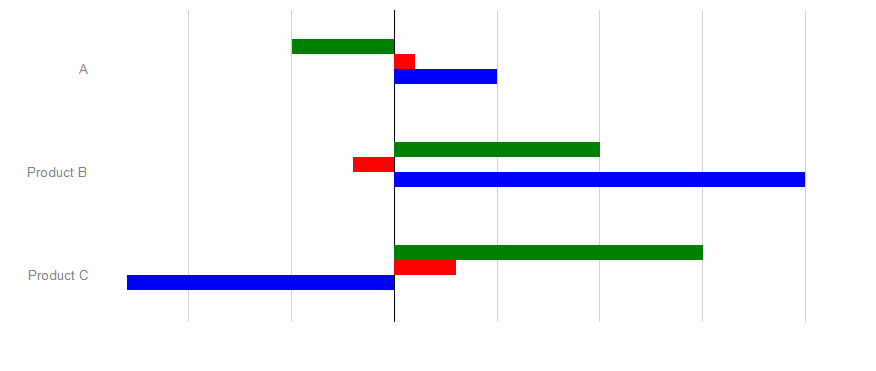
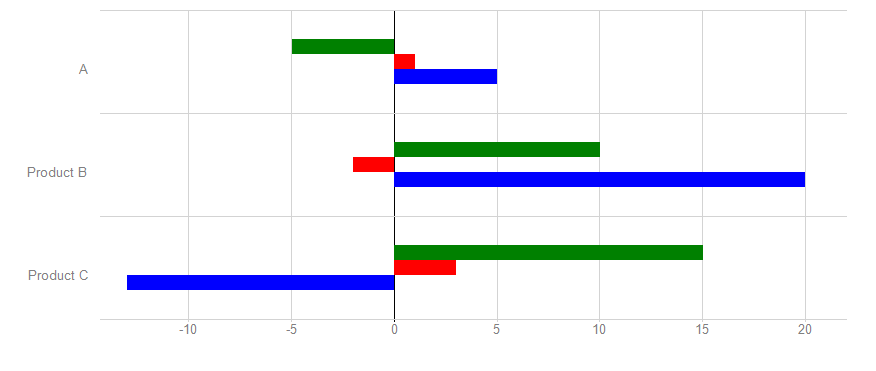
HorzBarChart: Draw vertical value labels

diff --git a/SimpleImageCharts/HorzBarChart/HorzBarChart.cs b/SimpleImageCharts/HorzBarChart/HorzBarChart.cs
@@ -61,8 +61,9 @@ namespace SimpleImageCharts.HorzBarChart
                 // X axis line
                 graphic.DrawLine(Pens.Black, _rootX, MarginTop, _rootX, Height - MarginBottom);
 
-                // DrawHorizontalLines(graphic);
+                DrawHorizontalLines(graphic);
                 DrawVerticalLines(graphic);
+                DrawVerticalValueLabels(graphic);
                 var offsetY = IsStacked ? 0 : -(DataSets.Length * BarHeight) / 2;
                 foreach (var data in DataSets)
                 {
@@ -115,10 +116,42 @@ namespace SimpleImageCharts.HorzBarChart
             }
         }
 
+        private void DrawVerticalValueLabels(Graphics graphic)
+        {
+            var x = _rootX;
+            var realStepSize = StepSize * _widthUnit;
+            using(var font = new Font("Arial", 10))
+            using (var stringFormat = new StringFormat())
+            {
+                stringFormat.Alignment = StringAlignment.Center;
+
+                graphic.DrawString("0", font, Brushes.Gray, _rootX, Height - MarginBottom, stringFormat);
+
+                for (int i = 0; i < _maxValue; i += StepSize)
+                {
+                    x += realStepSize;
+                    if (x < Width - MarginRight)
+                    {
+                        graphic.DrawString((i + StepSize).ToString(), font, Brushes.Gray, x, Height - MarginBottom, stringFormat);
+                    }
+                }
+
+                x = _rootX;
+                for (int i = 0; i > _minValue; i -= StepSize)
+                {
+                    x -= realStepSize;
+                    if (Math.Abs(x) > MarginLeft)
+                    {
+                        graphic.DrawString((i - StepSize).ToString(), font, Brushes.Gray, x, Height - MarginBottom, stringFormat);
+                    }
+                }
+            }
+        }
+
         private void DrawCategoyLabels(Graphics graphic)
         {
             var y = MarginTop + _categoryHeight / 2;
-            using(var font = new Font("Arial", 10))
+            using (var font = new Font("Arial", 10))
             using (StringFormat stringFormat = new StringFormat())
             {
                 stringFormat.Alignment = StringAlignment.Far;

diff --git a/SimpleImageChartsDemo/Form1.cs b/SimpleImageChartsDemo/Form1.cs
@@ -94,6 +94,7 @@ namespace WindowsFormsChart
             };
 
             pictureBox1.Image = chart.CreateImage();
+            pictureBox1.Image.Save(@"D:\GitHub\SimpleImageCharts\screenshots\horzBar.jpg");
         }
 
         private void BtnStackedHorzBar_Click(object sender, EventArgs e)
@@ -120,6 +121,7 @@ namespace WindowsFormsChart
             };
 
             pictureBox1.Image = chart.CreateImage();
+            pictureBox1.Image.Save(@"D:\GitHub\SimpleImageCharts\screenshots\StackedHorzBar.jpg");
         }
 
         private void BtnVertBar_Click(object sender, EventArgs e)
